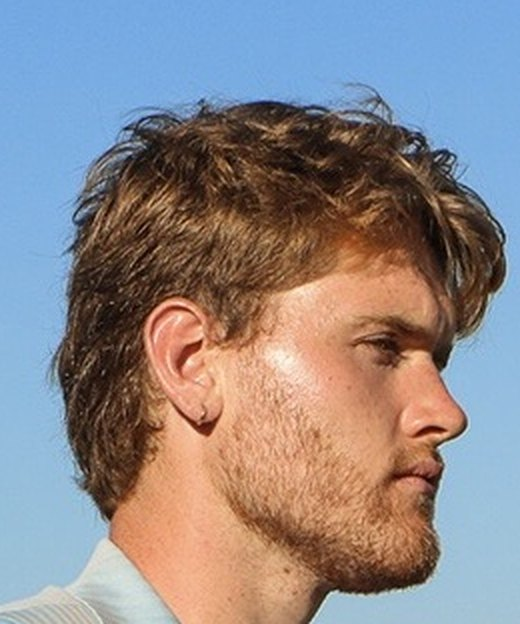
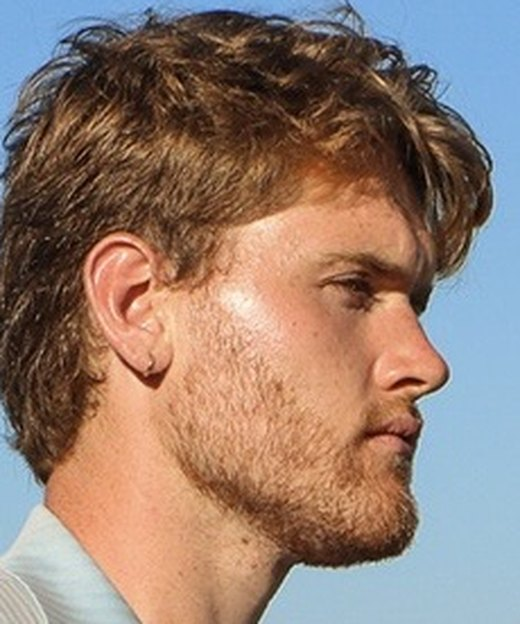
About: tighter portrait crop, scrollable experience list with sticky dates
- Portrait recropped: eyes on the vertical center, less headroom.
- Experience: dates in a left column; on desktop the list is a 360px
  scroll area where each date stays pinned next to its entry and is
  pushed up by the next one. On mobile dates stick under the navbar.
- Bottom fade via mask-image so it works in both themes.

Claude-Session: https://claude.ai/code/session_016XR9xXhSBTtv91f7kT2t6F

diff --git a/src/routes/index.tsx b/src/routes/index.tsx
@@ -173,40 +173,62 @@ function ExperienceList() {
       <h2 className="mt-4 font-display text-3xl font-medium tracking-tight text-foreground sm:text-4xl">
         Experience
       </h2>
-      <ol className="relative mt-8 border-l border-border pl-6">
-        {experiences.map((xp, i) => (
-          <li key={`${xp.company}-${xp.period}`} className={i > 0 ? "mt-7" : ""}>
-            <span
-              aria-hidden="true"
-              className={`absolute -left-[4.5px] mt-[7px] size-2 rounded-full ${
-                i === 0 ? "bg-primary" : "border border-border bg-background"
-              }`}
-            />
-            <p className="text-[11px] tracking-[0.2em] uppercase text-muted-foreground">
-              {xp.period}
-            </p>
-            <h3 className="mt-1.5 text-[16px] font-normal text-foreground">
-              {xp.role}
-              <span className="text-muted-foreground"> · </span>
-              {xp.companyUrl ? (
-                <a
-                  href={xp.companyUrl}
-                  {...EXT}
-                  className="underline-offset-4 transition-colors duration-300 hover:text-primary hover:underline"
+      {/*
+        Desktop: fixed-height scroll area. Each date is sticky inside its own
+        row, so the next row's date pushes it up while scrolling.
+        Mobile: the page scrolls; dates stick just under the fixed navbar.
+      */}
+      <div className="relative mt-8">
+        <div
+          tabIndex={0}
+          aria-label="Experience timeline (scrollable)"
+          className="exp-scroll rounded-sm focus-visible:outline-none focus-visible:ring-2 focus-visible:ring-ring lg:max-h-[360px] lg:overflow-y-auto lg:overscroll-contain lg:pr-3 lg:[mask-image:linear-gradient(to_bottom,black_calc(100%-48px),transparent)]"
+        >
+          <ol className="lg:pb-12">
+            {experiences.map((xp, i) => (
+              <li
+                key={`${xp.company}-${xp.period}`}
+                className="grid grid-cols-[88px_minmax(0,1fr)] gap-x-5"
+              >
+                <p className="about-bg sticky top-16 z-10 self-start py-1 text-[11px] leading-[1.6] tracking-[0.16em] uppercase text-muted-foreground lg:top-0">
+                  {xp.period}
+                </p>
+                <div
+                  className={`relative border-l border-border pl-5 ${
+                    i < experiences.length - 1 ? "pb-8" : ""
+                  }`}
                 >
-                  {xp.company}
-                </a>
-              ) : (
-                xp.company
-              )}
-            </h3>
-            <p className="mt-0.5 text-[13px] font-light text-muted-foreground">{xp.meta}</p>
-            <p className="mt-2 text-[14px] font-light leading-relaxed text-foreground/70">
-              {xp.summary}
-            </p>
-          </li>
-        ))}
-      </ol>
+                  <span
+                    aria-hidden="true"
+                    className={`absolute -left-[4.5px] top-[9px] size-2 rounded-full ${
+                      i === 0 ? "bg-primary" : "border border-border bg-background"
+                    }`}
+                  />
+                  <h3 className="text-[16px] font-normal leading-snug text-foreground">
+                    {xp.role}
+                    <span className="text-muted-foreground"> · </span>
+                    {xp.companyUrl ? (
+                      <a
+                        href={xp.companyUrl}
+                        {...EXT}
+                        className="underline-offset-4 transition-colors duration-300 hover:text-primary hover:underline"
+                      >
+                        {xp.company}
+                      </a>
+                    ) : (
+                      xp.company
+                    )}
+                  </h3>
+                  <p className="mt-0.5 text-[13px] font-light text-muted-foreground">{xp.meta}</p>
+                  <p className="mt-2 text-[14px] font-light leading-relaxed text-foreground/70">
+                    {xp.summary}
+                  </p>
+                </div>
+              </li>
+            ))}
+          </ol>
+        </div>
+      </div>
       <a
         href={profile.linkedinUrl}
         {...EXT}
@@ -223,7 +245,7 @@ function About() {
   return (
     <section
       id="about"
-      className="w-full border-t border-border/60 bg-surface/40"
+      className="about-bg w-full border-t border-border/60"
     >
       <div className="mx-auto grid w-full max-w-7xl grid-cols-1 items-start gap-12 px-6 py-28 sm:gap-16 lg:grid-cols-[260px_minmax(0,1fr)_minmax(0,1fr)] lg:gap-14 lg:px-10 lg:py-36 xl:gap-20">
         <Reveal className="justify-self-center lg:justify-self-start">

diff --git a/src/styles.css b/src/styles.css
@@ -240,3 +240,16 @@ html.light .shadow-soft {
 #home.grain::before {
   z-index: 1;
 }
+
+/* About section background, reused by the sticky experience dates so they
+   hide the content scrolling underneath (same color as the old bg-surface/40). */
+.about-bg {
+  --about-bg: color-mix(in oklab, var(--surface) 40%, var(--background));
+  background-color: var(--about-bg);
+}
+
+/* Thin, discreet scrollbar for the experience list */
+.exp-scroll {
+  scrollbar-width: thin;
+  scrollbar-color: color-mix(in oklab, var(--muted-foreground) 45%, transparent) transparent;
+}
